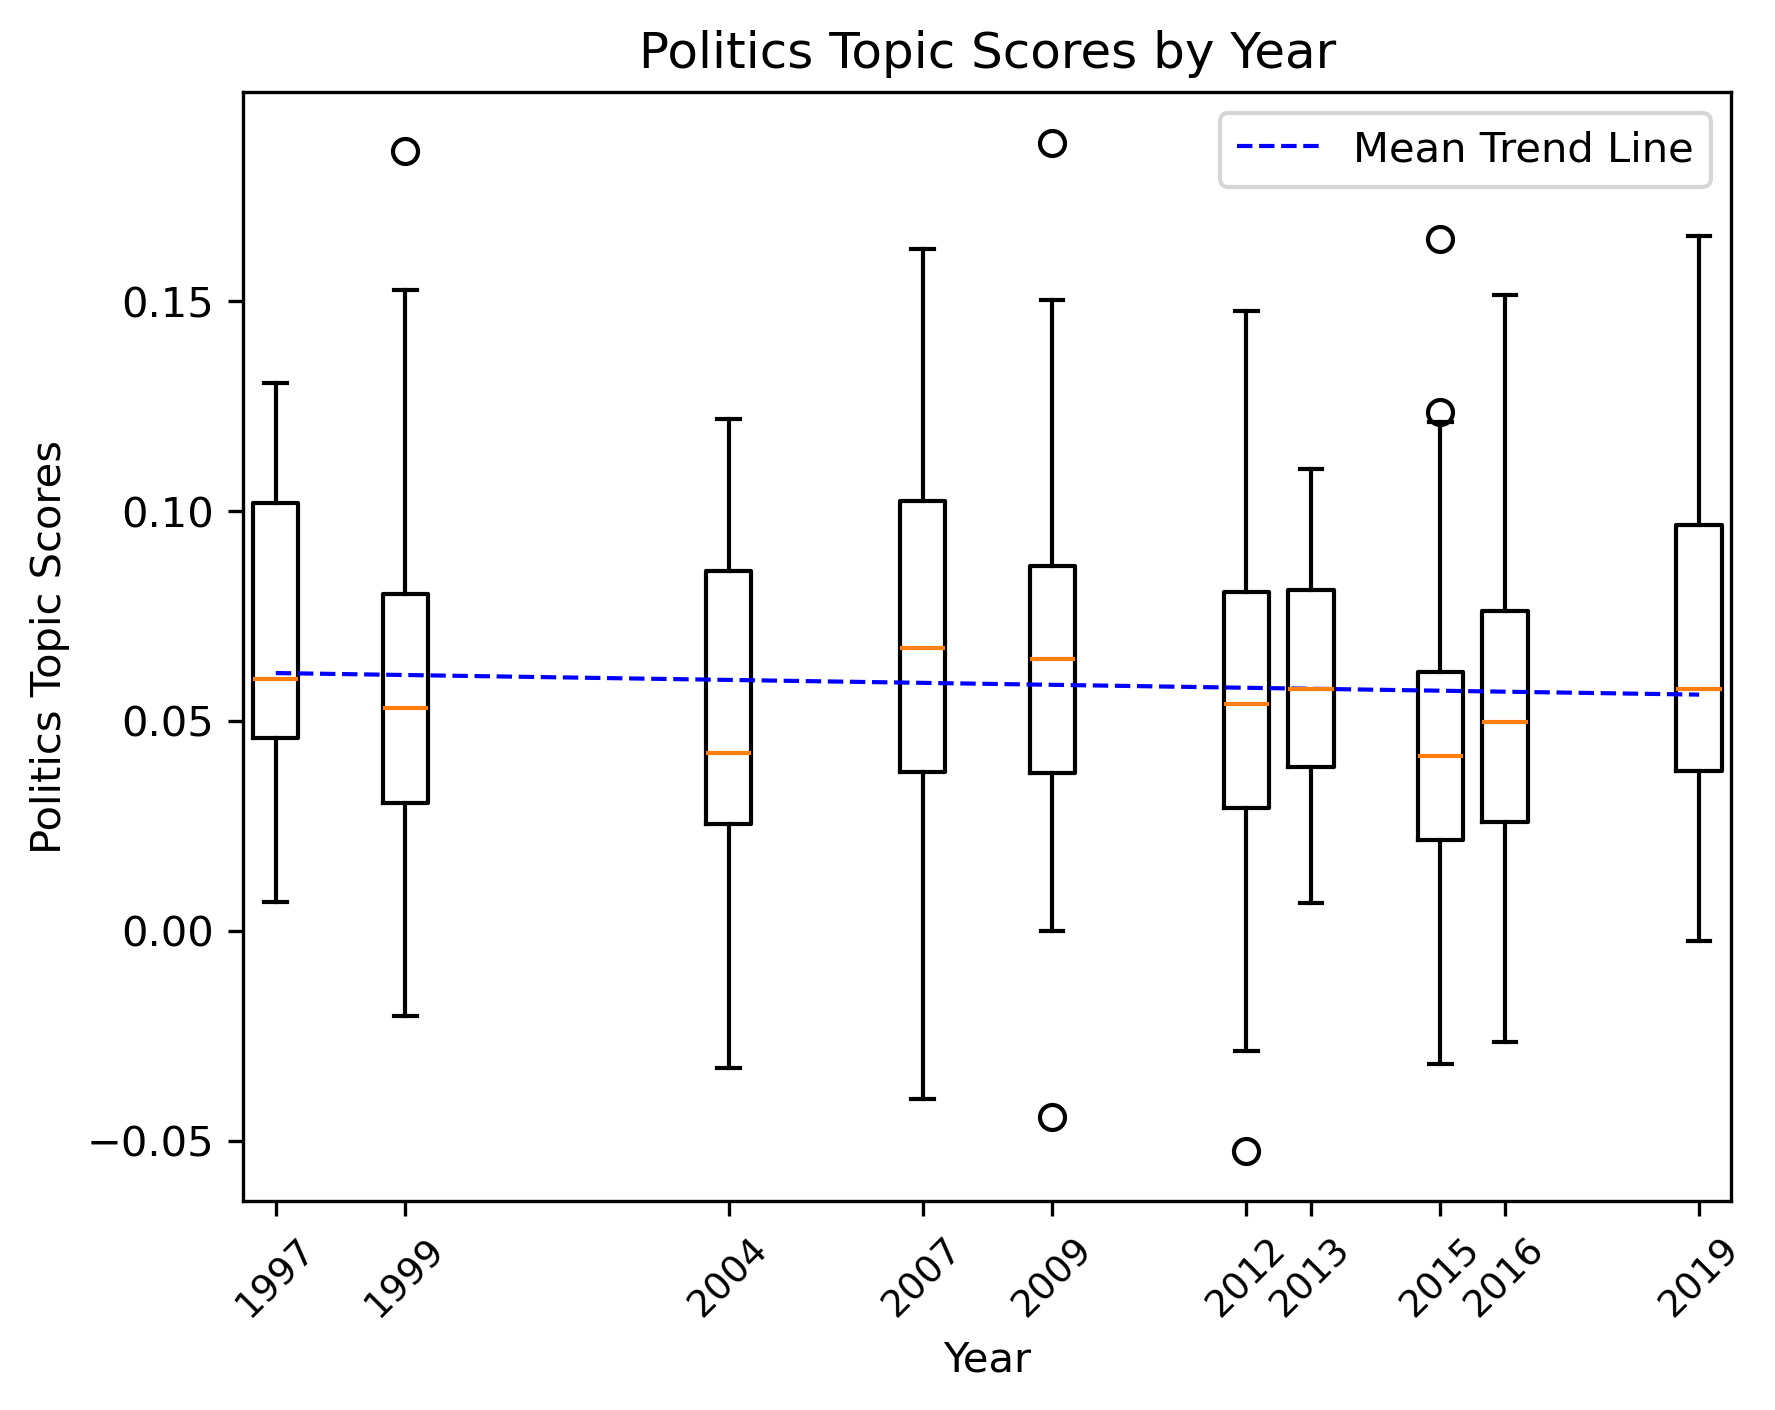
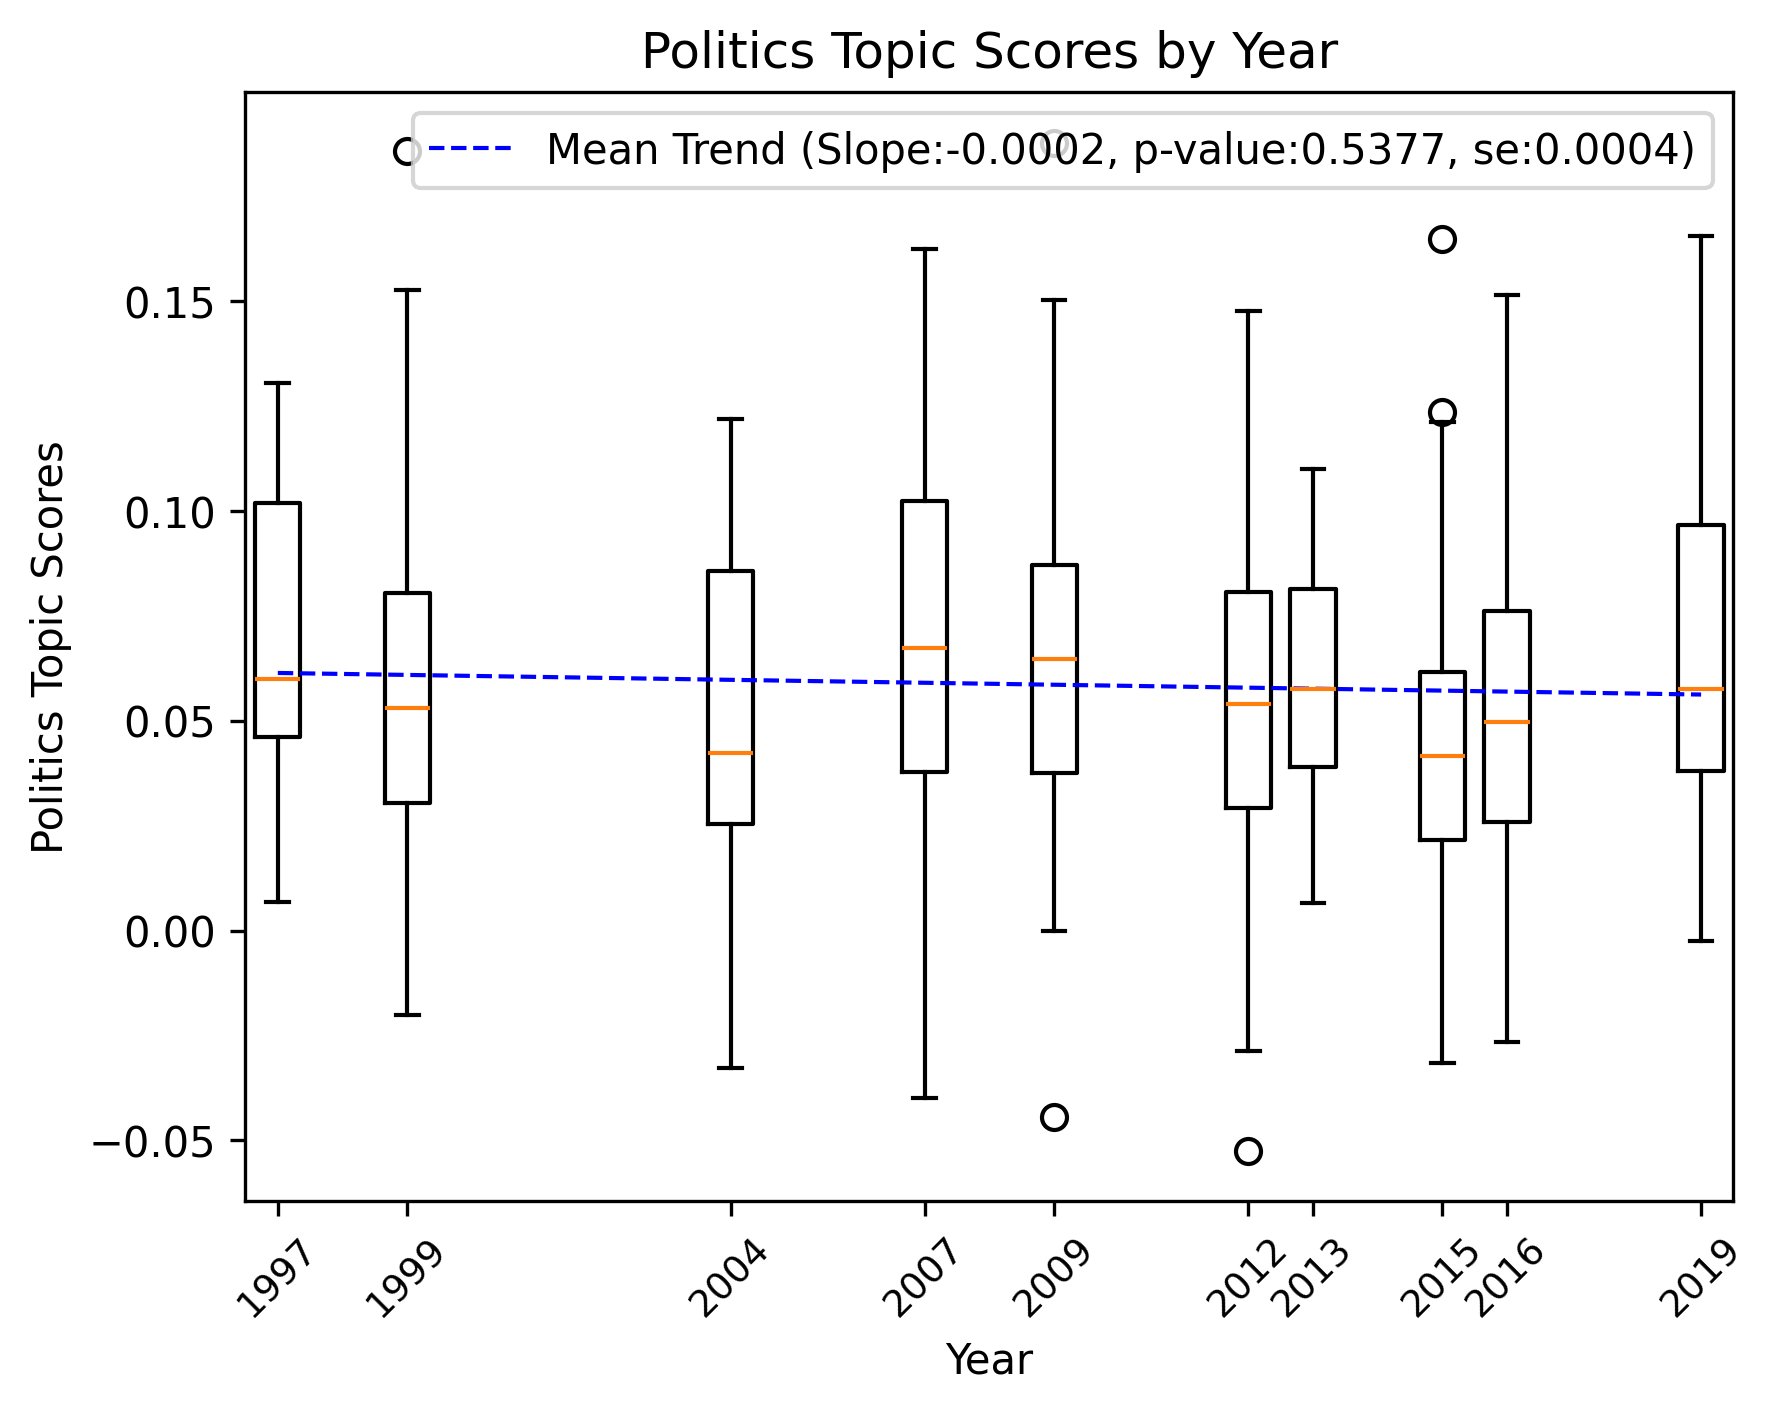
calculated slope, se, and pvalue

diff --git a/main.py b/main.py
@@ -1,4 +1,5 @@
 # This script serves as the main entry point for the project. It orchestrates the loading of models and data, the computation of topic scores, and the generation of visualizations for conference speeches on various topics.
+import matplotlib.pyplot as plt
 
 # Import necessary libraries and modules
 from sklearn.preprocessing import (
@@ -11,9 +12,10 @@ from python import (
 from python import (
     pca,
 )  # Custom module for performing Principal Component Analysis and generating PCA plots
-
+from sklearn.linear_model import LinearRegression
 import pickle  # for saving and loading computed scores
 import os  # for checking if cache files exist
+import numpy as np
 
 # Sentence embedding and natural language processing models
 EMBEDDINGS_MODEL = "sentence-transformers/all-mpnet-base-v2"  # https://huggingface.co/sentence-transformers/all-mpnet-base-v2, a pre-trained model for generating sentence embeddings
@@ -70,7 +72,6 @@ TOPICS = {
         "Negative": SCIENCE_NEG_DIR,
         "Speaker": SCIENCE_SPKR,
         "Year": SCIENCE_YEAR,
-        
     },
     "Neutral": {
         "Speaker": NEUTRAL_SPKR,
@@ -164,7 +165,9 @@ def main():
 
         # NEW: boxplot
         print(f"creating {topic} topic scores by year boxplot...")
-        tm.conf_boxplot(topic, yearly_topic_scores, show_trend=True, trend_method="mean")
+        tm.conf_boxplot(
+            topic, yearly_topic_scores, show_trend=True, trend_method="mean"
+        )
         # tm.conf_boxplot(f"{topic} Positive Proportion", yearly_topic_proportions, show_trend=True, trend_method="mean",)
 
         print(f"saved {topic} topic scores by year plot!")
@@ -191,7 +194,6 @@ def main():
         print("tyler the goat")
         # tm.the_goat_tyler(topic, yearly_topic_scores)
         # tm.save_topic_score_by_year_plot(topic, yearly_topic_scores)
-
     print("script finished.")
 
 

diff --git a/python/model.py b/python/model.py
@@ -23,7 +23,7 @@ import matplotlib.axes as axes
 
 # Custom module for handling embeddings
 from python import embeddings
-
+from scipy import stats
 import seaborn as sns  # For advanced data visualization, used for creating violin plots and enhancing the aesthetics of plots
 
 
@@ -210,11 +210,7 @@ def save_topic_score_by_year_plot(topic: str, yearly_scores: dict) -> None:
 
     # Setting up the plot
     years = np.array(list(yearly_scores.keys()))
-
-    scores = [
-        np.mean([1 if score >= 0.05 else 0 for score in yearly_scores[year]])
-        for year in years
-    ]
+    scores = np.array(list(yearly_scores.values()))
 
     _, ax = plt.subplots()
 
@@ -281,13 +277,14 @@ def conf_boxplot(
             pass  # TODO: more trend methods?
         if trend_method in ["median", "mean"]:
             m, b = np.polyfit(years, trend_values, 1)
+            s, i, r, p, e = stats.linregress(years, trend_values)
             ax.plot(
                 years,
                 m * years + b,
                 color="blue",
                 linestyle="--",
                 linewidth=1,
-                label=f"{trend_method.capitalize()} Trend Line",
+                label=f"{trend_method.capitalize()} Trend (Slope:{s:.4f}, p-value:{p:.4f}, se:{e:.4f})",
             )
 
     # Finalizing the plot
